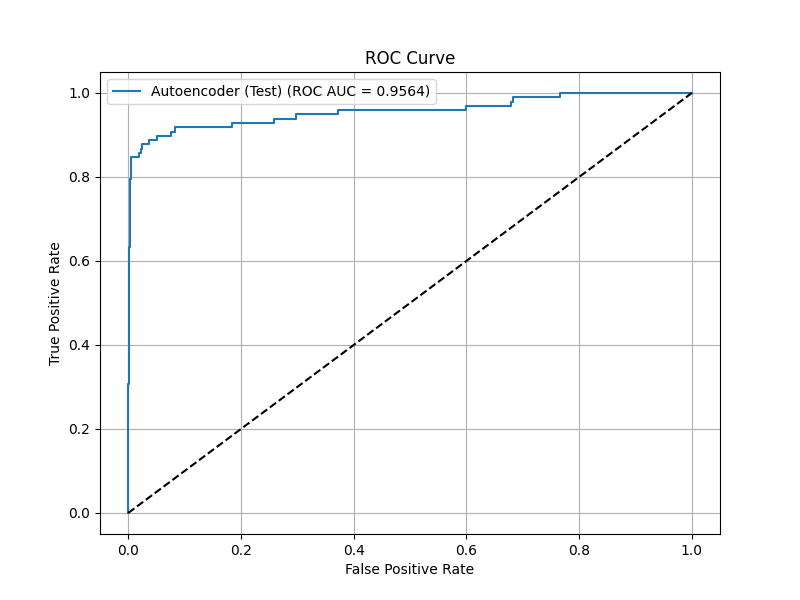
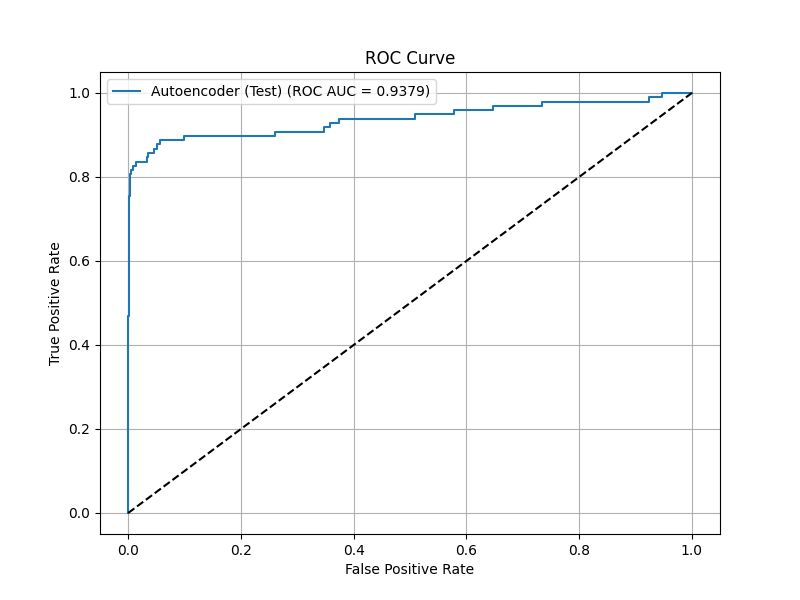
version 4

Changed region(s): [[0.1875, 0.12, 0.5625, 0.24], [0.625, 0.15, 0.8438, 0.18], [0.1562, 0.24, 0.1875, 0.3]]

diff --git a/src/detector.py b/src/detector.py
@@ -17,26 +17,51 @@ class AutoencoderDetector:
     """
     Wrapper for an Autoencoder anomaly detection model.
     """
-    def __init__(self, input_dim, encoding_dim=14, **params):
+    def __init__(self, input_dim, **params):
         self.input_dim = input_dim
-        self.encoding_dim = encoding_dim
         self.params = params
+        
+        # Get layer structure from params.
+        # Default to the *original* structure [14, 7] if not provided
+        # (e.g., this handles the case when loading a model)
+        self.layers = self.params.get('layers', [14, 7])
+        
+        if 'layers' not in self.params:
+            logger.warning(
+                f"Autoencoder 'layers' not specified in params. "
+                f"Defaulting to {self.layers}. (This is normal during model load)."
+            )
+            
         self.model = self._build_model()
-        logger.info(f"Autoencoder detector initialized with input_dim={input_dim}, encoding_dim={encoding_dim}")
+        logger.info(f"Autoencoder detector initialized with input_dim={input_dim}, layers={self.layers}")
 
     def _build_model(self):
-        """Builds the Keras Autoencoder model."""
+        """
+        Builds the Keras Autoencoder model dynamically based on self.layers.
+        Uses 'relu' for hidden layers for better deep network training.
+        """
         input_layer = Input(shape=(self.input_dim, ))
         
-        # Encoder
-        encoder = Dense(self.encoding_dim, activation="tanh")(input_layer)
-        encoder = Dense(int(self.encoding_dim / 2), activation="relu")(encoder)
+        x = input_layer
         
-        # Decoder
-        decoder = Dense(self.encoding_dim, activation='tanh')(encoder)
-        decoder = Dense(self.input_dim, activation='linear')(decoder)
+        # --- Encoder ---
+        # Build encoder layers (e.g., [20, 10, 5])
+        for layer_dim in self.layers:
+            x = Dense(layer_dim, activation="relu")(x)
         
-        autoencoder = Model(inputs=input_layer, outputs=decoder)
+        # 'x' is now the bottleneck layer
+        
+        # --- Decoder ---
+        # Build decoder layers in reverse (e.g., [10, 20])
+        # We reverse all layers *except* the last one (the bottleneck)
+        for layer_dim in reversed(self.layers[:-1]):
+            x = Dense(layer_dim, activation="relu")(x)
+        
+        # --- Output Layer ---
+        # Reconstruct back to the original input_dim
+        output_layer = Dense(self.input_dim, activation='linear')(x) 
+        
+        autoencoder = Model(inputs=input_layer, outputs=output_layer)
         autoencoder.compile(optimizer='adam', loss='mean_squared_error')
         return autoencoder
 
@@ -103,11 +128,19 @@ class AutoencoderDetector:
     def load(cls, path=config.DETECTOR_PATH):
         """Loads the Keras model from disk."""
         logger.info(f"Loading detector from {path}")
-        loaded_model = load_model(path)
+        # We need to pass custom_objects=None if we don't have custom layers/losses
+        # but the default load_model should be fine here.
+        loaded_model = load_model(path) 
         
         # Re-create an instance to hold the model
         # input_dim will be inferred from the loaded model
         input_dim = loaded_model.layers[0].input_shape[1]
-        instance = cls(input_dim=input_dim)
+        
+        # This will call __init__ with an empty params dict,
+        # which will use the default [14, 7] layers to build a
+        # temporary model. This is fine.
+        instance = cls(input_dim=input_dim) 
+        
+        # We immediately replace the temporary model with the loaded one.
         instance.model = loaded_model
         return instance

diff --git a/src/config.py b/src/config.py
@@ -45,9 +45,11 @@ FEATURES_TO_SCALE = ['Time', 'Amount']
 # --- Model Parameters ---
 
 # *** NEW: Autoencoder parameters ***
+# We now define the encoder layer structure dynamically.
+# The decoder will be built symmetrically.
 AUTOENCODER_PARAMS = {
-    'encoding_dim': 14,  # Intermediate dimension
-    'epochs': 20,        # Increase this for better performance (e.g., 50)
+    'layers': [20, 10, 5],  # Your requested 30 -> 20 -> 10 -> 5 bottleneck
+    'epochs': 50,          # Increased from 20 for the deeper model
     'batch_size': 256
 }
 
